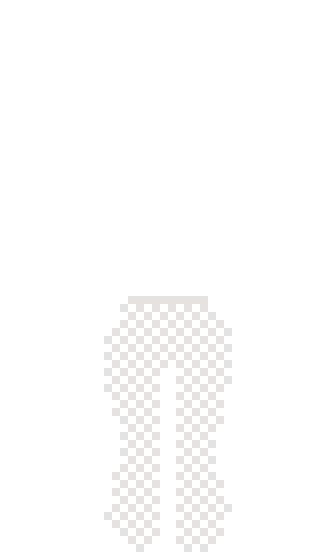
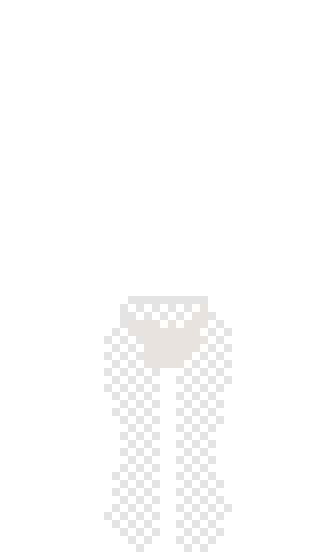
new dressup game assets added, dressup game, music player and desktop trial mobile versions added

Changed region(s): [[0.3659, 0.5464, 0.6402, 0.6679]]

diff --git a/index.html b/index.html
@@ -267,7 +267,11 @@
  <!-- fix iframe stacking -->
     <div id="opera-window" class="window">
         <section class="window-header" id="opera-header">
-            <div class="tab-list"></div>
+            <div class="tab-list">
+                <button id="home-page-button">
+                    <svg width="17" height="17" viewBox="0 0 17 17" fill="none" xmlns="http://www.w3.org/2000/svg"><path d="M16.5 6.25V16.5H11.5V12C11.5 11.7239 11.2761 11.5 11 11.5H7C6.72386 11.5 6.5 11.7239 6.5 12V16.5H0.5V6.26758L8.98242 0.612305L16.5 6.25Z" stroke="var(--color-highlight)" stroke-miterlimit="1" stroke-linejoin="round"/></svg>
+                </button>
+            </div>
             <div class="window-controls">
                 <button class="minimize-button">_</button>
                 <button class="maximize-button">🗖</button>
@@ -276,30 +280,45 @@
                 </button>
             </div>
         </section>
-        <input type="text" id="url-bar" placeholder="Enter search or web address">
-        <section class="bookmarks">
-            <button class="bookmark">
-                <svg viewBox="7.086 -169.483 1277.149 1277.149" shape-rendering="geometricPrecision" text-rendering="geometricPrecision" image-rendering="optimizeQuality" xmlns="http://www.w3.org/2000/svg" fill="#000000"><g id="SVGRepo_bgCarrier" stroke-width="0"></g><g id="SVGRepo_tracerCarrier" stroke-linecap="round" stroke-linejoin="round"></g><g id="SVGRepo_iconCarrier"><path fill="none" d="M1138.734 931.095h.283M1139.017 931.095h-.283"></path><path d="M1179.439 7.087c57.543 0 104.627 47.083 104.627 104.626v30.331l-145.36 103.833-494.873 340.894L148.96 242.419v688.676h-37.247c-57.543 0-104.627-47.082-104.627-104.625V111.742C7.086 54.198 54.17 7.115 111.713 7.115l532.12 394.525L1179.41 7.115l.029-.028z" fill="#e75a4d"></path><linearGradient id="a" gradientUnits="userSpaceOnUse" x1="1959.712" y1="737.107" x2="26066.213" y2="737.107" gradientTransform="matrix(.0283 0 0 -.0283 248.36 225.244)"><stop offset="0" stop-color="#f8f6ef"></stop><stop offset="1" stop-color="#e7e4d6"></stop></linearGradient><path fill="url(#a)" d="M111.713 7.087l532.12 394.525L1179.439 7.087z"></path><path fill="#e7e4d7" d="M148.96 242.419v688.676h989.774V245.877L643.833 586.771z"></path><path fill="#b8b7ae" d="M148.96 931.095l494.873-344.324-2.24-1.586L148.96 923.527z"></path><path fill="#b7b6ad" d="M1138.734 245.877l.283 685.218-495.184-344.324z"></path><path d="M1284.066 142.044l.17 684.51c-2.494 76.082-35.461 103.238-145.219 104.514l-.283-685.219 145.36-103.833-.028.028z" fill="#b2392f"></path><linearGradient id="b" gradientUnits="userSpaceOnUse" x1="1959.712" y1="737.107" x2="26066.213" y2="737.107" gradientTransform="matrix(.0283 0 0 -.0283 248.36 225.244)"><stop offset="0" stop-color="#f8f6ef"></stop><stop offset="1" stop-color="#e7e4d6"></stop></linearGradient><path fill="url(#b)" d="M111.713 7.087l532.12 394.525L1179.439 7.087z"></path><linearGradient id="c" gradientUnits="userSpaceOnUse" x1="1959.712" y1="737.107" x2="26066.213" y2="737.107" gradientTransform="matrix(.0283 0 0 -.0283 248.36 225.244)"><stop offset="0" stop-color="#f8f6ef"></stop><stop offset="1" stop-color="#e7e4d6"></stop></linearGradient><path fill="url(#c)" d="M111.713 7.087l532.12 394.525L1179.439 7.087z"></path><linearGradient id="d" gradientUnits="userSpaceOnUse" x1="1959.712" y1="737.107" x2="26066.213" y2="737.107" gradientTransform="matrix(.0283 0 0 -.0283 248.36 225.244)"><stop offset="0" stop-color="#f8f6ef"></stop><stop offset="1" stop-color="#e7e4d6"></stop></linearGradient><path fill="url(#d)" d="M111.713 7.087l532.12 394.525L1179.439 7.087z"></path><linearGradient id="e" gradientUnits="userSpaceOnUse" x1="1959.712" y1="737.107" x2="26066.213" y2="737.107" gradientTransform="matrix(.0283 0 0 -.0283 248.36 225.244)"><stop offset="0" stop-color="#f8f6ef"></stop><stop offset="1" stop-color="#e7e4d6"></stop></linearGradient><path fill="url(#e)" d="M111.713 7.087l532.12 394.525L1179.439 7.087z"></path><linearGradient id="f" gradientUnits="userSpaceOnUse" x1="1959.712" y1="737.107" x2="26066.213" y2="737.107" gradientTransform="matrix(.0283 0 0 -.0283 248.36 225.244)"><stop offset="0" stop-color="#f8f6ef"></stop><stop offset="1" stop-color="#e7e4d6"></stop></linearGradient><path fill="url(#f)" d="M111.713 7.087l532.12 394.525L1179.439 7.087z"></path><linearGradient id="g" gradientUnits="userSpaceOnUse" x1="1959.712" y1="737.107" x2="26066.213" y2="737.107" gradientTransform="matrix(.0283 0 0 -.0283 248.36 225.244)"><stop offset="0" stop-color="#f8f6ef"></stop><stop offset="1" stop-color="#e7e4d6"></stop></linearGradient><path fill="url(#g)" d="M111.713 7.087l532.12 394.525L1179.439 7.087z"></path><linearGradient id="h" gradientUnits="userSpaceOnUse" x1="1959.712" y1="737.107" x2="26066.213" y2="737.107" gradientTransform="matrix(.0283 0 0 -.0283 248.36 225.244)"><stop offset="0" stop-color="#f8f6ef"></stop><stop offset="1" stop-color="#e7e4d6"></stop></linearGradient><path fill="url(#h)" d="M111.713 7.087l532.12 394.525L1179.439 7.087z"></path><path fill="#f7f5ed" d="M111.713 7.087l532.12 394.525L1179.439 7.087z"></path></g></svg>
-                <span>Email</span>
-            </button>
-            <button class="bookmark">
-                <svg viewBox="0 0 20 20" version="1.1" xmlns="http://www.w3.org/2000/svg" xmlns:xlink="http://www.w3.org/1999/xlink" fill="#000000"><g id="SVGRepo_bgCarrier" stroke-width="0"></g><g id="SVGRepo_tracerCarrier" stroke-linecap="round" stroke-linejoin="round"></g><g id="SVGRepo_iconCarrier"> <title>github [#ffffff]</title> <desc>Created with Sketch.</desc> <defs> </defs> <g id="Page-1" stroke="none" stroke-width="1" fill="none" fill-rule="evenodd"> <g id="Dribbble-Light-Preview" transform="translate(-140.000000, -7559.000000)" fill="#ffffff"> <g id="icons" transform="translate(56.000000, 160.000000)"> <path d="M94,7399 C99.523,7399 104,7403.59 104,7409.253 C104,7413.782 101.138,7417.624 97.167,7418.981 C96.66,7419.082 96.48,7418.762 96.48,7418.489 C96.48,7418.151 96.492,7417.047 96.492,7415.675 C96.492,7414.719 96.172,7414.095 95.813,7413.777 C98.04,7413.523 100.38,7412.656 100.38,7408.718 C100.38,7407.598 99.992,7406.684 99.35,7405.966 C99.454,7405.707 99.797,7404.664 99.252,7403.252 C99.252,7403.252 98.414,7402.977 96.505,7404.303 C95.706,7404.076 94.85,7403.962 94,7403.958 C93.15,7403.962 92.295,7404.076 91.497,7404.303 C89.586,7402.977 88.746,7403.252 88.746,7403.252 C88.203,7404.664 88.546,7405.707 88.649,7405.966 C88.01,7406.684 87.619,7407.598 87.619,7408.718 C87.619,7412.646 89.954,7413.526 92.175,7413.785 C91.889,7414.041 91.63,7414.493 91.54,7415.156 C90.97,7415.418 89.522,7415.871 88.63,7414.304 C88.63,7414.304 88.101,7413.319 87.097,7413.247 C87.097,7413.247 86.122,7413.234 87.029,7413.87 C87.029,7413.87 87.684,7414.185 88.139,7415.37 C88.139,7415.37 88.726,7417.2 91.508,7416.58 C91.513,7417.437 91.522,7418.245 91.522,7418.489 C91.522,7418.76 91.338,7419.077 90.839,7418.982 C86.865,7417.627 84,7413.783 84,7409.253 C84,7403.59 88.478,7399 94,7399" id="github-[#ffffff]"> </path> </g> </g> </g> </g></svg>
-                <span>Github</span>
-            </button>
-            <button class="bookmark">
-                <svg viewBox="0 0 20 20" version="1.1" xmlns="http://www.w3.org/2000/svg" xmlns:xlink="http://www.w3.org/1999/xlink" fill="#000000"><g id="SVGRepo_bgCarrier" stroke-width="0"></g><g id="SVGRepo_tracerCarrier" stroke-linecap="round" stroke-linejoin="round"></g><g id="SVGRepo_iconCarrier"> <title>github [#ffffff]</title> <desc>Created with Sketch.</desc> <defs> </defs> <g id="Page-1" stroke="none" stroke-width="1" fill="none" fill-rule="evenodd"> <g id="Dribbble-Light-Preview" transform="translate(-140.000000, -7559.000000)" fill="#ffffff"> <g id="icons" transform="translate(56.000000, 160.000000)"> <path d="M94,7399 C99.523,7399 104,7403.59 104,7409.253 C104,7413.782 101.138,7417.624 97.167,7418.981 C96.66,7419.082 96.48,7418.762 96.48,7418.489 C96.48,7418.151 96.492,7417.047 96.492,7415.675 C96.492,7414.719 96.172,7414.095 95.813,7413.777 C98.04,7413.523 100.38,7412.656 100.38,7408.718 C100.38,7407.598 99.992,7406.684 99.35,7405.966 C99.454,7405.707 99.797,7404.664 99.252,7403.252 C99.252,7403.252 98.414,7402.977 96.505,7404.303 C95.706,7404.076 94.85,7403.962 94,7403.958 C93.15,7403.962 92.295,7404.076 91.497,7404.303 C89.586,7402.977 88.746,7403.252 88.746,7403.252 C88.203,7404.664 88.546,7405.707 88.649,7405.966 C88.01,7406.684 87.619,7407.598 87.619,7408.718 C87.619,7412.646 89.954,7413.526 92.175,7413.785 C91.889,7414.041 91.63,7414.493 91.54,7415.156 C90.97,7415.418 89.522,7415.871 88.63,7414.304 C88.63,7414.304 88.101,7413.319 87.097,7413.247 C87.097,7413.247 86.122,7413.234 87.029,7413.87 C87.029,7413.87 87.684,7414.185 88.139,7415.37 C88.139,7415.37 88.726,7417.2 91.508,7416.58 C91.513,7417.437 91.522,7418.245 91.522,7418.489 C91.522,7418.76 91.338,7419.077 90.839,7418.982 C86.865,7417.627 84,7413.783 84,7409.253 C84,7403.59 88.478,7399 94,7399" id="github-[#ffffff]"> </path> </g> </g> </g> </g></svg>
-                <span>Noise Mixer</span>
-            </button>
-        </section>
-        <div class="opera base">
-            <div class="webpage" id="github-page" style="display:none">
-                <iframe src="https://bigbupper.github.io/White-Noise/" frameborder="0"></iframe>
-            </div>
-            <div class="webpage" id="email-page" style="display: none;">
-                <iframe src="https://bigbupper.github.io/White-Noise/" frameborder="0"></iframe>
-            </div>
-            <div class="webpage" id="noise-mixer-page">
-                <iframe src="https://bigbupper.github.io/White-Noise/" frameborder="0"></iframe>
+        <div id="border-gradient">
+            <div id="background">
+                <input type="text" id="url-bar" placeholder="Enter search or web address">
+                <section class="bookmarks">
+                    <button class="bookmark">
+                        <svg viewBox="7.086 -169.483 1277.149 1277.149" shape-rendering="geometricPrecision" text-rendering="geometricPrecision" image-rendering="optimizeQuality" xmlns="http://www.w3.org/2000/svg" fill="#000000"><g id="SVGRepo_bgCarrier" stroke-width="0"></g><g id="SVGRepo_tracerCarrier" stroke-linecap="round" stroke-linejoin="round"></g><g id="SVGRepo_iconCarrier"><path fill="none" d="M1138.734 931.095h.283M1139.017 931.095h-.283"></path><path d="M1179.439 7.087c57.543 0 104.627 47.083 104.627 104.626v30.331l-145.36 103.833-494.873 340.894L148.96 242.419v688.676h-37.247c-57.543 0-104.627-47.082-104.627-104.625V111.742C7.086 54.198 54.17 7.115 111.713 7.115l532.12 394.525L1179.41 7.115l.029-.028z" fill="#e75a4d"></path><linearGradient id="a" gradientUnits="userSpaceOnUse" x1="1959.712" y1="737.107" x2="26066.213" y2="737.107" gradientTransform="matrix(.0283 0 0 -.0283 248.36 225.244)"><stop offset="0" stop-color="#f8f6ef"></stop><stop offset="1" stop-color="#e7e4d6"></stop></linearGradient><path fill="url(#a)" d="M111.713 7.087l532.12 394.525L1179.439 7.087z"></path><path fill="#e7e4d7" d="M148.96 242.419v688.676h989.774V245.877L643.833 586.771z"></path><path fill="#b8b7ae" d="M148.96 931.095l494.873-344.324-2.24-1.586L148.96 923.527z"></path><path fill="#b7b6ad" d="M1138.734 245.877l.283 685.218-495.184-344.324z"></path><path d="M1284.066 142.044l.17 684.51c-2.494 76.082-35.461 103.238-145.219 104.514l-.283-685.219 145.36-103.833-.028.028z" fill="#b2392f"></path><linearGradient id="b" gradientUnits="userSpaceOnUse" x1="1959.712" y1="737.107" x2="26066.213" y2="737.107" gradientTransform="matrix(.0283 0 0 -.0283 248.36 225.244)"><stop offset="0" stop-color="#f8f6ef"></stop><stop offset="1" stop-color="#e7e4d6"></stop></linearGradient><path fill="url(#b)" d="M111.713 7.087l532.12 394.525L1179.439 7.087z"></path><linearGradient id="c" gradientUnits="userSpaceOnUse" x1="1959.712" y1="737.107" x2="26066.213" y2="737.107" gradientTransform="matrix(.0283 0 0 -.0283 248.36 225.244)"><stop offset="0" stop-color="#f8f6ef"></stop><stop offset="1" stop-color="#e7e4d6"></stop></linearGradient><path fill="url(#c)" d="M111.713 7.087l532.12 394.525L1179.439 7.087z"></path><linearGradient id="d" gradientUnits="userSpaceOnUse" x1="1959.712" y1="737.107" x2="26066.213" y2="737.107" gradientTransform="matrix(.0283 0 0 -.0283 248.36 225.244)"><stop offset="0" stop-color="#f8f6ef"></stop><stop offset="1" stop-color="#e7e4d6"></stop></linearGradient><path fill="url(#d)" d="M111.713 7.087l532.12 394.525L1179.439 7.087z"></path><linearGradient id="e" gradientUnits="userSpaceOnUse" x1="1959.712" y1="737.107" x2="26066.213" y2="737.107" gradientTransform="matrix(.0283 0 0 -.0283 248.36 225.244)"><stop offset="0" stop-color="#f8f6ef"></stop><stop offset="1" stop-color="#e7e4d6"></stop></linearGradient><path fill="url(#e)" d="M111.713 7.087l532.12 394.525L1179.439 7.087z"></path><linearGradient id="f" gradientUnits="userSpaceOnUse" x1="1959.712" y1="737.107" x2="26066.213" y2="737.107" gradientTransform="matrix(.0283 0 0 -.0283 248.36 225.244)"><stop offset="0" stop-color="#f8f6ef"></stop><stop offset="1" stop-color="#e7e4d6"></stop></linearGradient><path fill="url(#f)" d="M111.713 7.087l532.12 394.525L1179.439 7.087z"></path><linearGradient id="g" gradientUnits="userSpaceOnUse" x1="1959.712" y1="737.107" x2="26066.213" y2="737.107" gradientTransform="matrix(.0283 0 0 -.0283 248.36 225.244)"><stop offset="0" stop-color="#f8f6ef"></stop><stop offset="1" stop-color="#e7e4d6"></stop></linearGradient><path fill="url(#g)" d="M111.713 7.087l532.12 394.525L1179.439 7.087z"></path><linearGradient id="h" gradientUnits="userSpaceOnUse" x1="1959.712" y1="737.107" x2="26066.213" y2="737.107" gradientTransform="matrix(.0283 0 0 -.0283 248.36 225.244)"><stop offset="0" stop-color="#f8f6ef"></stop><stop offset="1" stop-color="#e7e4d6"></stop></linearGradient><path fill="url(#h)" d="M111.713 7.087l532.12 394.525L1179.439 7.087z"></path><path fill="#f7f5ed" d="M111.713 7.087l532.12 394.525L1179.439 7.087z"></path></g></svg>
+                        <span>Email</span>
+                    </button>
+                    <button class="bookmark">
+                        <svg viewBox="0 0 20 20" version="1.1" xmlns="http://www.w3.org/2000/svg" xmlns:xlink="http://www.w3.org/1999/xlink" fill="#000000"><g id="SVGRepo_bgCarrier" stroke-width="0"></g><g id="SVGRepo_tracerCarrier" stroke-linecap="round" stroke-linejoin="round"></g><g id="SVGRepo_iconCarrier"> <title>github [#ffffff]</title> <desc>Created with Sketch.</desc> <defs> </defs> <g id="Page-1" stroke="none" stroke-width="1" fill="none" fill-rule="evenodd"> <g id="Dribbble-Light-Preview" transform="translate(-140.000000, -7559.000000)" fill="#ffffff"> <g id="icons" transform="translate(56.000000, 160.000000)"> <path d="M94,7399 C99.523,7399 104,7403.59 104,7409.253 C104,7413.782 101.138,7417.624 97.167,7418.981 C96.66,7419.082 96.48,7418.762 96.48,7418.489 C96.48,7418.151 96.492,7417.047 96.492,7415.675 C96.492,7414.719 96.172,7414.095 95.813,7413.777 C98.04,7413.523 100.38,7412.656 100.38,7408.718 C100.38,7407.598 99.992,7406.684 99.35,7405.966 C99.454,7405.707 99.797,7404.664 99.252,7403.252 C99.252,7403.252 98.414,7402.977 96.505,7404.303 C95.706,7404.076 94.85,7403.962 94,7403.958 C93.15,7403.962 92.295,7404.076 91.497,7404.303 C89.586,7402.977 88.746,7403.252 88.746,7403.252 C88.203,7404.664 88.546,7405.707 88.649,7405.966 C88.01,7406.684 87.619,7407.598 87.619,7408.718 C87.619,7412.646 89.954,7413.526 92.175,7413.785 C91.889,7414.041 91.63,7414.493 91.54,7415.156 C90.97,7415.418 89.522,7415.871 88.63,7414.304 C88.63,7414.304 88.101,7413.319 87.097,7413.247 C87.097,7413.247 86.122,7413.234 87.029,7413.87 C87.029,7413.87 87.684,7414.185 88.139,7415.37 C88.139,7415.37 88.726,7417.2 91.508,7416.58 C91.513,7417.437 91.522,7418.245 91.522,7418.489 C91.522,7418.76 91.338,7419.077 90.839,7418.982 C86.865,7417.627 84,7413.783 84,7409.253 C84,7403.59 88.478,7399 94,7399" id="github-[#ffffff]"> </path> </g> </g> </g> </g></svg>
+                        <span>Github</span>
+                    </button>
+                    <button class="bookmark">
+                        <svg viewBox="0 0 20 20" version="1.1" xmlns="http://www.w3.org/2000/svg" xmlns:xlink="http://www.w3.org/1999/xlink" fill="#000000"><g id="SVGRepo_bgCarrier" stroke-width="0"></g><g id="SVGRepo_tracerCarrier" stroke-linecap="round" stroke-linejoin="round"></g><g id="SVGRepo_iconCarrier"> <title>github [#ffffff]</title> <desc>Created with Sketch.</desc> <defs> </defs> <g id="Page-1" stroke="none" stroke-width="1" fill="none" fill-rule="evenodd"> <g id="Dribbble-Light-Preview" transform="translate(-140.000000, -7559.000000)" fill="#ffffff"> <g id="icons" transform="translate(56.000000, 160.000000)"> <path d="M94,7399 C99.523,7399 104,7403.59 104,7409.253 C104,7413.782 101.138,7417.624 97.167,7418.981 C96.66,7419.082 96.48,7418.762 96.48,7418.489 C96.48,7418.151 96.492,7417.047 96.492,7415.675 C96.492,7414.719 96.172,7414.095 95.813,7413.777 C98.04,7413.523 100.38,7412.656 100.38,7408.718 C100.38,7407.598 99.992,7406.684 99.35,7405.966 C99.454,7405.707 99.797,7404.664 99.252,7403.252 C99.252,7403.252 98.414,7402.977 96.505,7404.303 C95.706,7404.076 94.85,7403.962 94,7403.958 C93.15,7403.962 92.295,7404.076 91.497,7404.303 C89.586,7402.977 88.746,7403.252 88.746,7403.252 C88.203,7404.664 88.546,7405.707 88.649,7405.966 C88.01,7406.684 87.619,7407.598 87.619,7408.718 C87.619,7412.646 89.954,7413.526 92.175,7413.785 C91.889,7414.041 91.63,7414.493 91.54,7415.156 C90.97,7415.418 89.522,7415.871 88.63,7414.304 C88.63,7414.304 88.101,7413.319 87.097,7413.247 C87.097,7413.247 86.122,7413.234 87.029,7413.87 C87.029,7413.87 87.684,7414.185 88.139,7415.37 C88.139,7415.37 88.726,7417.2 91.508,7416.58 C91.513,7417.437 91.522,7418.245 91.522,7418.489 C91.522,7418.76 91.338,7419.077 90.839,7418.982 C86.865,7417.627 84,7413.783 84,7409.253 C84,7403.59 88.478,7399 94,7399" id="github-[#ffffff]"> </path> </g> </g> </g> </g></svg>
+                        <span>Noise Mixer</span>
+                    </button>
+                    <button class="bookmark">
+                        <svg viewBox="0 0 20 20" version="1.1" xmlns="http://www.w3.org/2000/svg" xmlns:xlink="http://www.w3.org/1999/xlink" fill="#000000"><g id="SVGRepo_bgCarrier" stroke-width="0"></g><g id="SVGRepo_tracerCarrier" stroke-linecap="round" stroke-linejoin="round"></g><g id="SVGRepo_iconCarrier"> <title>github [#ffffff]</title> <desc>Created with Sketch.</desc> <defs> </defs> <g id="Page-1" stroke="none" stroke-width="1" fill="none" fill-rule="evenodd"> <g id="Dribbble-Light-Preview" transform="translate(-140.000000, -7559.000000)" fill="#ffffff"> <g id="icons" transform="translate(56.000000, 160.000000)"> <path d="M94,7399 C99.523,7399 104,7403.59 104,7409.253 C104,7413.782 101.138,7417.624 97.167,7418.981 C96.66,7419.082 96.48,7418.762 96.48,7418.489 C96.48,7418.151 96.492,7417.047 96.492,7415.675 C96.492,7414.719 96.172,7414.095 95.813,7413.777 C98.04,7413.523 100.38,7412.656 100.38,7408.718 C100.38,7407.598 99.992,7406.684 99.35,7405.966 C99.454,7405.707 99.797,7404.664 99.252,7403.252 C99.252,7403.252 98.414,7402.977 96.505,7404.303 C95.706,7404.076 94.85,7403.962 94,7403.958 C93.15,7403.962 92.295,7404.076 91.497,7404.303 C89.586,7402.977 88.746,7403.252 88.746,7403.252 C88.203,7404.664 88.546,7405.707 88.649,7405.966 C88.01,7406.684 87.619,7407.598 87.619,7408.718 C87.619,7412.646 89.954,7413.526 92.175,7413.785 C91.889,7414.041 91.63,7414.493 91.54,7415.156 C90.97,7415.418 89.522,7415.871 88.63,7414.304 C88.63,7414.304 88.101,7413.319 87.097,7413.247 C87.097,7413.247 86.122,7413.234 87.029,7413.87 C87.029,7413.87 87.684,7414.185 88.139,7415.37 C88.139,7415.37 88.726,7417.2 91.508,7416.58 C91.513,7417.437 91.522,7418.245 91.522,7418.489 C91.522,7418.76 91.338,7419.077 90.839,7418.982 C86.865,7417.627 84,7413.783 84,7409.253 C84,7403.59 88.478,7399 94,7399" id="github-[#ffffff]"> </path> </g> </g> </g> </g></svg>
+                        <span>Youtube</span>
+                    </button>
+                </section>
+                <div class="opera base">
+                    <div class="webpage" id="home-page" style="display:none">
+                        <p></p>
+                    </div>
+                    <div class="webpage" id="github-page" style="display:none">
+                        <iframe src="https://www.duckduckgo.com" frameborder="0"></iframe>
+                    </div>
+                    <div class="webpage" id="email-page" style="display: none;">
+                        <iframe src="https://www.youtube.com/embed/d-WlaSwe-Kg" frameborder="0"></iframe>
+                    </div>
+                    <div class="webpage" id="noise-mixer-page" style="display: none;">
+                        <iframe src="https://bigbupper.github.io/White-Noise" frameborder="0"></iframe>
+                    </div>
+                    <!-- make youtube clone esq video player and embed a video -->
+                    <div class="webpage" id="youtube-page" style="display: none;">
+                        <iframe src="https://www.youtube.com/embed/E--OBBmTi4g?si=gNy5BwRaMd86nSHC" title="YouTube video player" frameborder="0" allow="accelerometer; autoplay; clipboard-write; encrypted-media; gyroscope; picture-in-picture; web-share" referrerpolicy="strict-origin-when-cross-origin" allowfullscreen></iframe>
+                    </div>
+                </div>
             </div>
         </div>
         <div class="resizer"></div>

diff --git a/opera.css b/opera.css
@@ -15,6 +15,7 @@
     --color-background: #140310;
     --color-highlight: rgb(168, 84, 136);
     --color-secondary: rgba(255, 155, 217, 0.144);
+    --color-text: rgba(255, 255, 255, 0.747);
 }
 .opera.base {
     display: flex;
@@ -22,14 +23,36 @@
     height: 100%;
     width: 100%;
 }
+#border-gradient {
+    width: 100%;
+    height: 100%;
+    border-radius: 4px;
+    padding: 2px;
+    background: linear-gradient(
+        to bottom right,
+        var(--color-highlight) 0%,
+        var(--color-highlight) 15%,
+        var(--color-background) 45%,
+        var(--color-background) 100%
+    );
 
+}
+#background {
+    width: 100%;
+    height: 100%;
+    border-radius: 5px;
+    padding: 4px;
+    background-color: var(--color-background);
+}
 /* -------window header------- */
 #opera-header {
     display: flex;
     height: 35px;
     justify-content: space-between;
     align-items: center;
-    border-bottom:  2px solid var(--color-highlight);
+}
+#opera-header .window-controls {
+    color: var(--color-highlight) !important;
 }
 #exit-opera {
     width: 20px;
@@ -45,26 +68,37 @@
 .tab {
     display: flex;
     align-items: center;
-    background-color: var(--color-secondary);
-    border-radius: var(--border-radius-edges) var(--border-radius-edges) 0px 0px ;
+    border-radius: 4px;
     height: 30px;
+    width: 200px;
+    gap: 10px;
     padding: 0px 10px;
     margin-right: 5px;
-    cursor: pointer;
     font-size: 14px;
-    color: white;
+    color: var(--color-highlight)
+}
+.tab:hover {
+    background-color: var(--color-secondary);
+    color: var(--color-text);
+}
+.tab.active{
+    background-color: var(--color-highlight);
+    font-weight: bold;
 }
 .close-tab {
+    scale: 0.75;
     margin-left: 0.5em;
-    cursor: pointer;
-    color: #999;
-    font-weight: bold;
-    font-size: 1em;
+    padding: 3px;
+    border-radius: 4px;
+    color: #ffffff;
+    background-color: transparent;
+    margin-left: auto;
 }
 
 .close-tab:hover {
-    color: #e75a4d;
+    background-color: var(--color-highlight);
 }
+
 
 
 /*----- url bar -----*/
@@ -99,7 +133,6 @@
     display: flex;
     align-content: center;
     background-color: transparent;
-    cursor: pointer;
     color: var(--color-highlight);
     padding: 5px 10px;
     border-radius: var(--border-radius-edges);
@@ -121,6 +154,48 @@
     background: white;
     display: block;
     border: none;
-
+    height: 100%;
 }
+
+@media (max-width: 600px) {
+    #opera-window {
+        position: fixed;
+        top: 0;
+        left: 0;
+        width: 100vw;
+        height: calc(100vh - 80px); /* leave room for taskbar */
+        min-width: auto;
+        min-height: auto;
+        border-radius: 0;
+        padding: 0;
+    }
+
+    /* smaller header */
+    #opera-header {
+        height: 30px;
+    }
+
+    /* main game area - vertical stack */
+    .opera.base {
+        flex: 1;
+        display: flex;
+        border-radius: 10px;
+        height: 100%;
+        width: 100%;
+    }
+    .webpage {
+        flex: 1 1 auto;
+        display: flex;
+        flex-direction: column;
+        min-height: 0; 
+        margin-top: 5px;
+    }
+    .webpage iframe {  
+        flex: 1 1 auto;
+        background: var(--color-background);
+        display: block;
+        border: none;
+    }
+}
+
 

diff --git a/opera.js b/opera.js
@@ -3,7 +3,7 @@ document.addEventListener('DOMContentLoaded', function () {
     function setupOperaTabs(operaWindow) {
         const tabList = operaWindow.querySelector('.tab-list');
         const bookmarks = operaWindow.querySelectorAll('.bookmark');
-        const pages = operaWindow.querySelectorAll('.page');
+        const pages = operaWindow.querySelectorAll('.webpage');
 
         function addTab(bookmark, targetPageId) {
             const tab = document.createElement('button');
@@ -13,9 +13,9 @@ document.addEventListener('DOMContentLoaded', function () {
             const svgClone = bookmark.querySelector('svg').cloneNode(true);
             const spanClone = bookmark.querySelector('span').cloneNode(true);
 
-            const closeBtn = document.createElement('span');
+            const closeBtn = document.createElement('button');
             closeBtn.classList.add('close-tab');
-            closeBtn.textContent = '×';
+            closeBtn.innerHTML = '<svg viewBox="-0.5 0 25 25" fill="none" xmlns="http://www.w3.org/2000/svg"><g id="SVGRepo_bgCarrier" stroke-width="0"></g><g id="SVGRepo_tracerCarrier" stroke-linecap="round" stroke-linejoin="round"></g><g id="SVGRepo_iconCarrier"> <path d="M3 21.32L21 3.32001" stroke="#ffffff" stroke-width="3" stroke-linecap="round" stroke-linejoin="round"></path> <path d="M3 3.32001L21 21.32" stroke="#ffffff" stroke-width="3" stroke-linecap="round" stroke-linejoin="round"></path> </g></svg>';
 
             closeBtn.addEventListener('click', (event) => {
                 event.stopPropagation();
@@ -84,7 +84,8 @@ document.addEventListener('DOMContentLoaded', function () {
             const map = {
                 'Email': 'email-page',
                 'Github': 'github-page',
-                'Noise Mixer': 'noise-mixer-page'
+                'Noise Mixer': 'noise-mixer-page',
+                'Youtube': 'youtube-page'
             };
             return map[tabLabel] || null;
         }

diff --git a/desktop.css b/desktop.css
@@ -298,7 +298,6 @@ button {
     cursor: pointer;
     transition: all 0.7s ease;
 }
-
 .start-icon:hover {
     filter: drop-shadow(0px 0px 10px rgba(255, 255, 255, 0.233));
     transition: all 0.7s ease;
@@ -412,17 +411,39 @@ button {
     }
     .start-menu {
         position: fixed;
-        height: 410px;
-        width: 350px;
+        height: 310px;
+        width: 310px;
         background-color: var(--desktop-base);
         backdrop-filter: blur(15px);
         z-index: 100;
     }
-    .sta
+     .start-icon {
+        height: 90px;
+        width: 80px;
+    }
+    .start-icon-container {
+        margin: 10px;
+        gap: 8px;
+    }
+    .start-icon img {
+        height: 55px;
+        width: 55px;
+    }
+    #mini-weather-icon {
+        padding: 10px;
+    }
+    #mini-weather-icon h2{
+        font-size: 1.5rem;
+    }
+    #mini-weather-icon h1{
+        font-size: 2.3rem;
+    }
+    /* all windows */
     .window {
         position: fixed;
         top: 0px;
         left: 0px;
+        box-shadow: none;
     }
     .maximize-button {
         display: none !important;

diff --git a/music-player.css b/music-player.css
@@ -309,3 +309,34 @@ input[type="range"]:hover {
     gap: 20px;
     padding: 10px 0;
 }
+@media (max-width: 600px) {
+    #spotify-window {
+        position: fixed;
+        top: 0;
+        left: 0;
+        width: 100vw;
+        height: calc(100vh - 80px); /* leave room for taskbar */
+        min-width: auto;
+        min-height: auto;
+        border-radius: 0;
+        padding: 0;
+    }
+
+    /* smaller header */
+    #spotify-header {
+        height: 30px;
+    }
+
+    /* main game area - vertical stack */
+    .spotify.base {
+        flex: 1;
+        display: flex;
+        border: 5px solid black;
+        border-bottom: 10px solid black;
+        border-radius: 10px;
+        height: 100%;
+        width: 100%;
+    }
+}
+
+

diff --git a/dressup.js b/dressup.js
@@ -9,15 +9,15 @@ document.addEventListener('DOMContentLoaded', () => {
         brows: 7,
         lips: 15,
         hair: 20,
-        hat: 6,
+        hat: 10,
         longsleeve: 10,
-        shortsleeve: 9,
+        shortsleeve: 11,
         sleeveless: 3,
-        outerwear: 3,
-        skirt: 7,
+        outerwear: 4,
+        skirt: 9,
         shorts: 2,
         pants: 9,
-        overalls: 2,
+        overalls: 4,
         socks: 7,
         shoes: 8,
         bags: 4,
@@ -29,8 +29,8 @@ document.addEventListener('DOMContentLoaded', () => {
         base: 0,
         lips: 1,
         brows: 1,
-        hair: 2,
-        eyes: 3,
+        eyes: 2,
+        hair: 3,
         socks: 4,
         shoes: 5,
         skirt: 6,

diff --git a/dressup.css b/dressup.css
@@ -21,8 +21,7 @@
     background-color: var(--color-primary);
     background-size: cover;
     background-repeat: no-repeat;
-    background-position: top center;
-    background-blend-mode: overlay;
+    background-position: center;
     border-radius: 10px;
     padding: 10px;
 
